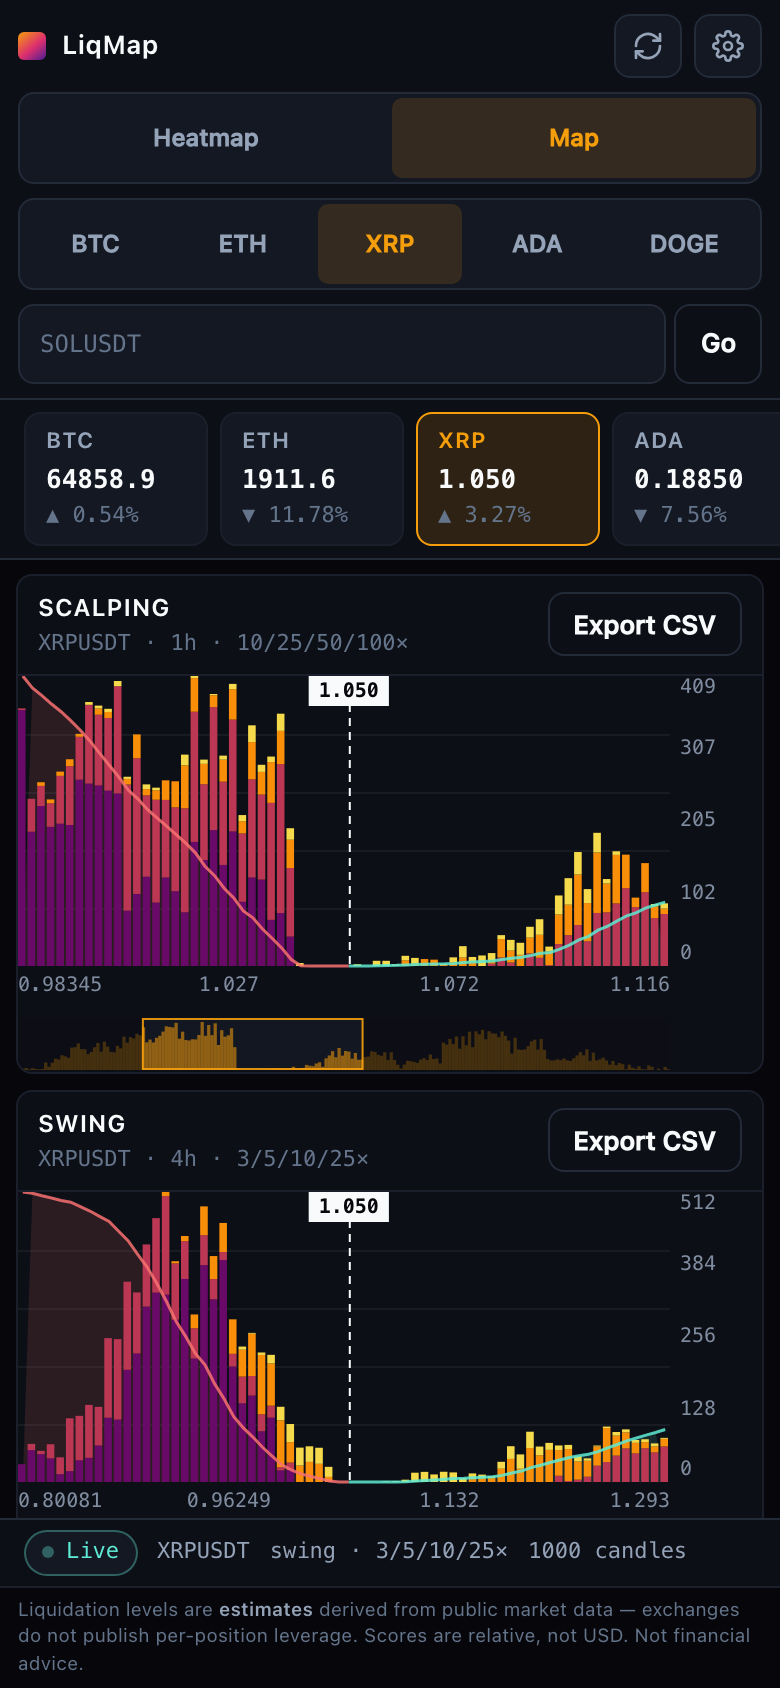
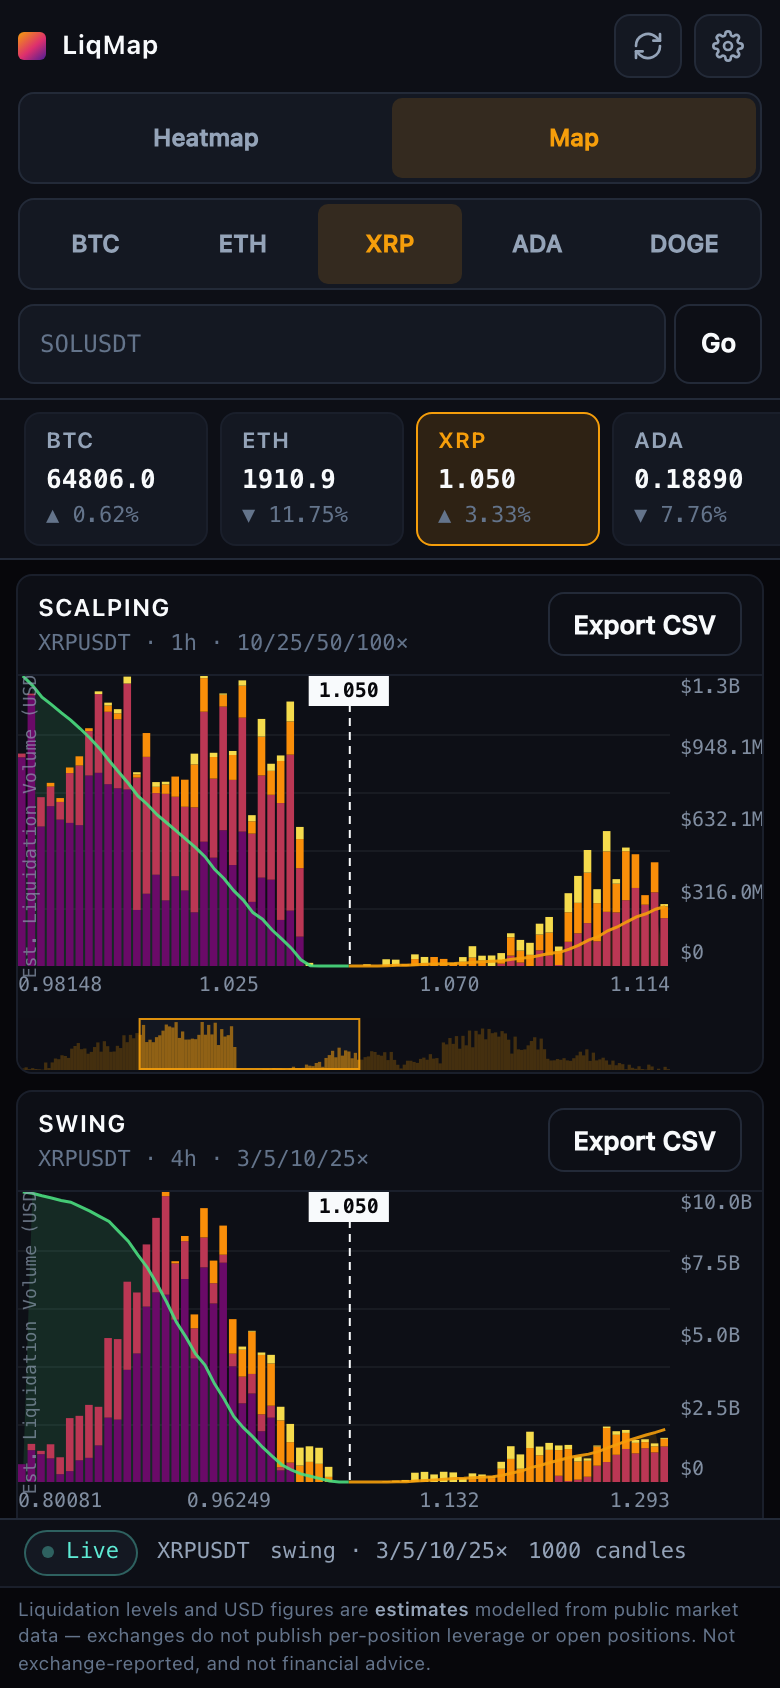
fix: Map help line said 'not USD' beside a USD axis

diff --git a/src/ui/MapView.tsx b/src/ui/MapView.tsx
@@ -74,9 +74,10 @@ export function MapView({ symbol, livePrice, nonce }: Props) {
       />
 
       <p className="map__help">
-        Bars are <strong>relative intensity</strong>, not contracts or USD. Taller means a
-        stronger expected reaction — price tends to be drawn toward these levels and to
-        accelerate through them. Below current price is long liquidations, above is shorts.
+        Bars are <strong>estimated USD notional</strong> at each level, modelled from candle
+        turnover — not exchange-reported positions. Taller means a stronger expected reaction:
+        price tends to be drawn toward these levels and to accelerate through them. Below
+        current price is long liquidations, above is shorts.
       </p>
     </div>
   );
